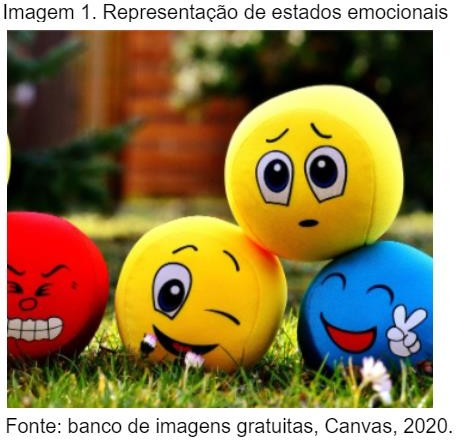
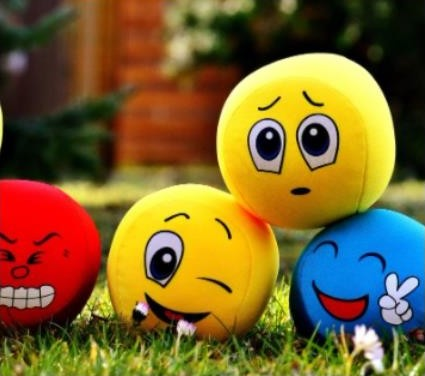
comecei o topico03

diff --git a/Modulo01/assets/cssdapagina/style.css b/Modulo01/assets/cssdapagina/style.css
@@ -234,3 +234,7 @@ h3{
         margin-bottom: 100vh !important; /* Adicione margem na parte inferior conforme necessário */
     }
 }
+
+.bd-topico04-2{
+    border-left:5px solid #f0ad4e;
+}

diff --git a/Modulo01/topico03.php b/Modulo01/topico03.php
@@ -1,0 +1,125 @@
+<?php
+include('layout/head.php');
+ ?>
+<body>
+<!-- ola -->
+    <!-- NAV  -->
+    <?php
+    include('layout/nav.php');
+    ?>
+    <!-- FIM DA NAV -->
+
+    <!-- menu lateral  -->
+    <?php
+    include('layout/menu.php');
+    ?>
+
+    <div class="all-conteudo">
+        <section>
+            <div class="main-content container-fluid">
+
+
+
+                <div class="row">
+                    <!-- Begin row -->
+                    <div class="col-md-1"></div>
+                    <div class="col-md-10 col-sm-8 container-fluid">
+
+                        <h2 class="Titulo fw-bolder">03 - Você se considera emocionalmente inteligente?</h2>
+                        <!-- tirei o hr por que o menu não estava ficando sobreposto -->
+                        <!-- <hr> -->
+                        <div class="row">
+                                <div class="col-md-6">
+                                    <br><p class="img-fluid wow fadeInLeft" data-wow-delay="0.5s">Poucos de nós fomos ensinados a questionar sobre a nossa capacidade de compreender a nós mesmos e aos outros. Seus cuidadores na infância provavelmente lhe ensinaram a respeitar as outras pessoas, especialmente as mais velhas e as figuras hierárquicas, e também a amar o próximo e a tratar os demais com gentileza.</p>
+                                    <br><p class="img-fluid wow fadeInLeft" data-wow-delay="0.8s">Infelizmente, poucas pessoas estimuladas a respeitarem a si mesmas e a se tratarem com a mesma gentileza. O autorrespeito e o autocuidado são tomados como certos, como algo natural e, por isso, muitos pensam que eles não necessitam ser ensinados. Porém, se isso fosse verdade, não veríamos tantos casos de pessoas envolvidas em relações tóxicas.</p>
+                                </div>
+                                <div class="col-md-6">
+                        <!-- Titulo Figura -->
+                        <div class="text-center img-01">
+                            <p class="TituloFigura FonteMenor text-secondary p-2"><strong>Figura 1:</strong>
+                                Representação
+                                do tempo na mente humana</p>
+                            <div class="zoom">
+                                <a href="imagens/Figura01.png" data-bs-toggle="modal" data-bs-target="#Imagem01">
+                                    <img src="imgs/topico03/Figura03.jpg" alt="Imagem que remete a organização" id="img-1">
+                                </a>
+                            </div>
+                            <p class="FonteFigura FonteMenor text-secondary"><strong>Fonte:</strong> banco de imagens
+                                gratuitas do canvas, 2020</p>
+                        </div>
+
+                        <!-- Imagem 01 - MODAL (Audi)-->
+                        <div class="modal fade text-center" id="Imagem01" tabindex="-1"
+                            aria-labelledby="exampleModalLabel" aria-hidden="true">
+                            <div
+                                class="modal-dialog modal-dialog-centered modal-lg d-flex justify-content-center flex-column">
+                                <div class="modal-content w-50">
+                                    <img class="img-fluid" src="imgs/topico03/Figura03.jpg" alt="Alt da imagem fica aqui">
+                                </div>
+                                <div class="modal-footer w-50 bg-light justify-content-center">
+                                    <p class="text-secondary"><strong>Fonte:</strong> banco de imagens
+                                        gratuitas do canvas, 2020</p>
+                                </div>
+                            </div>
+                        </div>
+                        <!-- Imagem 01 - End  (Audi)-->
+
+                                </div>
+                            </div>
+                            <p>É bastante comum que os pais ensinem aos filhos a se protegerem dos perigos externos. Ainda, mesmo que as crianças saibam como “jamais levar desaforo para casa” ou “nunca apanhar das outras crianças”, isso pode, em alguma medida, ser considerado como autocuidado. Também é bastante óbvio que atender às nossas necessidades biológicas - tais como comer, beber e dormir - é um cuidado que temos com o nosso corpo.</p>
+
+                            <!-- CAIXA DE TEXTO CURIOSIDADE -->
+                            <section class="container">
+                                <div class="accordion ">
+                                <section id="content">
+                                    <div class="caixaprincipal" id="tituloCuriosidade">
+                                    <div class="div_teste">
+                                        <div><i class="fa-solid fa-question"></i> CURIOSIDADE </div>
+
+                                        <i id="icon-pointer" class="fa-regular fa-hand-pointer fa-beat"></i>
+                                    </div>
+                                    </div> <!--caixa Principal-->
+                                    <div class="accordion-content" id="Curiosidade">
+                                    <p class="txt-aviso"><strong class="opacity-75"><strong class="opacity-75">
+                                            Passe o mouse acima
+                                        </strong></strong></p>
+                                    <p class="txt-caixasecundaria">No entanto, mesmo nesses aspectos mais básicos da vida, podemos perceber que poucos de nós fomos ensinados a refletir sobre como o que comemos, bebemos ou o modo como dormimos, afeta a nossa felicidade ou bem-estar, por exemplo. Em alguns ambientes familiares, nossos pais ou companheiros são bastantes gentis e nos questionam, por exemplo, sobre a qualidade do nosso sono ao amanhecer, mas você provavelmente nunca acordou e conversou consigo mesmo sobre o quão bem ou mal dormiu. Talvez você jamais tenha pensado sobre isso.
+                                    </p><!--caixa secundaria-->
+                                    </div>
+                                </section>
+                            </section>
+                            <!-- FIM DA CAIXA DE TEXTO CURIOSIDADE -->
+
+                            <p>Mesmo no imaginário popular existe o desestímulo a tal prática, e quem descobrir que você está conversando consigo mesmo perguntará se está em seu pleno juízo ou se ficou louco. Este tipo de ideia é extremamente prejudicial, pois nos torna dependentes da gentileza das outras pessoas para verificarmos como estão as nossas emoções e qualidade de vida. Porém, temos total capacidade de conhecermos a nós mesmos. Além disso, terceirizar esses questionamentos nos coloca na expectativa com relação aos gestos das outras pessoas e nos frustra quando pensamos que o outro “não está nem aí pra nós”.</p>
+
+                            <p>Em contrapartida, é bastante importante que consigamos compreender que cada um é responsável por si mesmo e pelo próprio bem-estar. Ao entendermos esta realidade, somos empoderados com a capacidade de tornarmos a nós mesmos pessoas mais felizes ao focalizarmos a nossa atenção em nós mesmos, compreendendo nossas emoções e necessidades. Para tanto, precisamos apenas interrogar o nosso eu, conversando conosco, com o nosso ser. Esta é, sem dúvida, a mais saudável conversação que você encontrará. Aqui, eu gostaria de chamar sua atenção para uma questão muito importante:</p>
+
+                            <!-- Citação com borda verde (esquerda) -->
+                            <div class="bd-callout bd-callout-success bd-topico04-2 m-3">
+                            <!-- blockquote do bootstrap -->
+                            <figure>
+                            <blockquote class="blockquote">
+                                <p><strong>Se você não consegue compreender a si mesmo, como poderá comunicar sobre você às outras pessoas?</strong></p>
+                            </blockquote>
+                            </figure>
+                        </div>
+                        <!-- Citação com borda verde (esquerda) -->
+                        </div>
+                        </div>
+
+        <!-- Botões de navegação -->
+        <div class="text-center">
+            <a href="topico01.php" class="btn btn-outline-success" role="button" aria-pressed="true">Próximo <i
+                    class="bi bi-chevron-right"></i></a>
+        </div>
+
+
+        <div id="progress-bar"></div>
+    </div>
+    
+<?php
+include('layout/footer.php');
+?>
+</body>
+
+</html>

diff --git a/Modulo01/topico01.php b/Modulo01/topico01.php
@@ -35,27 +35,35 @@ include('layout/head.php');
 
                             </div>
                             <div class="col-md-6">
-                                <br><!-- Titulo Figura -->
-                                <div class="text-center">
-                                    <a href="imagens/Figura01.jpg" data-bs-toggle="modal" data-bs-target="#Imagem01">
-                                        <img class="img-fluid wow fadeInRight" data-wow-delay="0.5s" class="img-fluid" src="imgs/topico01/Figura01.jpg" width="300" alt="Alt da imagem fica aqui">
-                                    </a>
-                                </div>
+                        <!-- Titulo Figura -->
+                        <div class="text-center img-01">
+                            <p class="TituloFigura FonteMenor text-secondary p-2"><strong>Figura 1:</strong>
+                                Representação
+                                do tempo na mente humana</p>
+                            <div class="zoom">
+                                <a href="imagens/Figura01.png" data-bs-toggle="modal" data-bs-target="#Imagem01">
+                                    <img class="w-50" src="imgs/topico01/Figura01.jpg" alt="Imagem que remete a organização" id="img-1">
+                                </a>
+                            </div>
+                            <p class="FonteFigura FonteMenor text-secondary"><strong>Fonte:</strong> banco de imagens
+                                gratuitas do canvas, 2020</p>
+                        </div>
 
-                                <!-- Imagem 01 - MODAL -->
-                                <div class="modal fade text-center" id="Imagem01" tabindex="-1" aria-labelledby="exampleModalLabel" aria-hidden="true">
-                                    <div class="modal-dialog modal-dialog-centered modal-lg">
-                                        <div class="modal-content">
-                                            <div class="modal-body">
-                                                <img class="img-fluid" src="imagens/Figura01.jpg" alt="Alt da imagem fica aqui">
-                                            </div>
-                                            <div class="modal-footer text-center">
-                                                <p class="TituloFigura"><strong>Figura 01:</strong> </p>
-                                            </div>
-                                        </div>
-                                    </div>
+                        <!-- Imagem 01 - MODAL (Audi)-->
+                        <div class="modal fade text-center" id="Imagem01" tabindex="-1"
+                            aria-labelledby="exampleModalLabel" aria-hidden="true">
+                            <div
+                                class="modal-dialog modal-dialog-centered modal-lg d-flex justify-content-center flex-column">
+                                <div class="modal-content w-50">
+                                    <img class="img-fluid" src="imgs/topico01/Figura01.jpg" alt="Alt da imagem fica aqui">
                                 </div>
-                                <!-- Imagem 01 - End -->
+                                <div class="modal-footer w-50 bg-light justify-content-center">
+                                    <p class="text-secondary"><strong>Fonte:</strong> banco de imagens
+                                        gratuitas do canvas, 2020</p>
+                                </div>
+                            </div>
+                        </div>
+                        <!-- Imagem 01 - End  (Audi)-->
                             </div>
                         </div>
 
